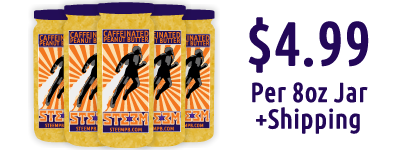
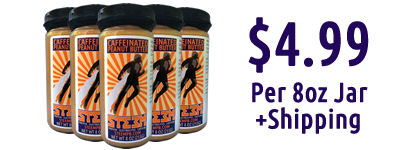
fixes #2

diff --git a/assets/css/main.css b/assets/css/main.css
@@ -133,12 +133,12 @@ div#header-home img#sublogo{
 #cta-main{
     color: #eee;
     position: absolute;
-    top: 330px;
+    top: 280px;
     left: 50%;
     margin-left: 70px;
     z-index: 2;
     width: 230px;
-    height: 405px;
+    height: 445px;
     padding: 30px;
     padding-top: 0px;
     text-align: center;
@@ -155,8 +155,9 @@ div#header-home img#sublogo{
 
 #cta-main img#cta-jar{
     max-width: 270px;
+    margin-top: -10px;
     margin-left: -50px;
-    margin-bottom: 10px;
+    margin-bottom: 0px;
 }
 
 #cta-beta{
